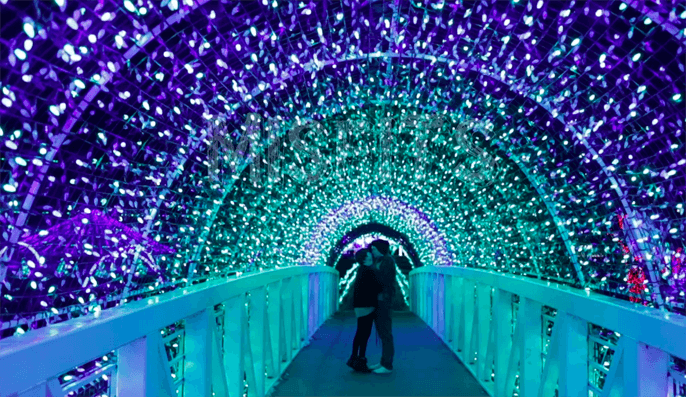
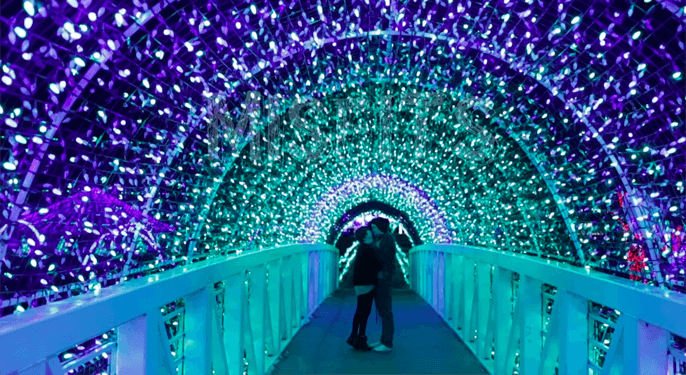
font, crop, events headline changed

diff --git a/index.php b/index.php
@@ -113,7 +113,7 @@ can enjoy our events just as much as our visitors.</p>
 
   <section class="section" id="events">
 
-    <h1 class="headline">Events</h1>
+    <h1 class="headline">Upcoming<br>Events</h1>
 
     <div class="screen">
 
